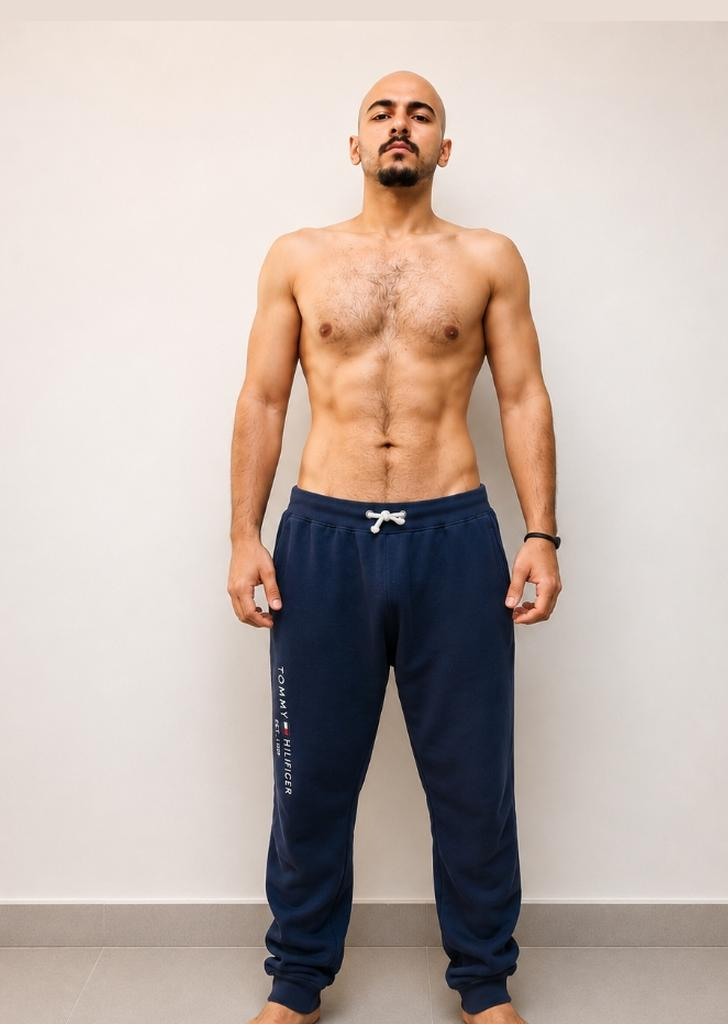
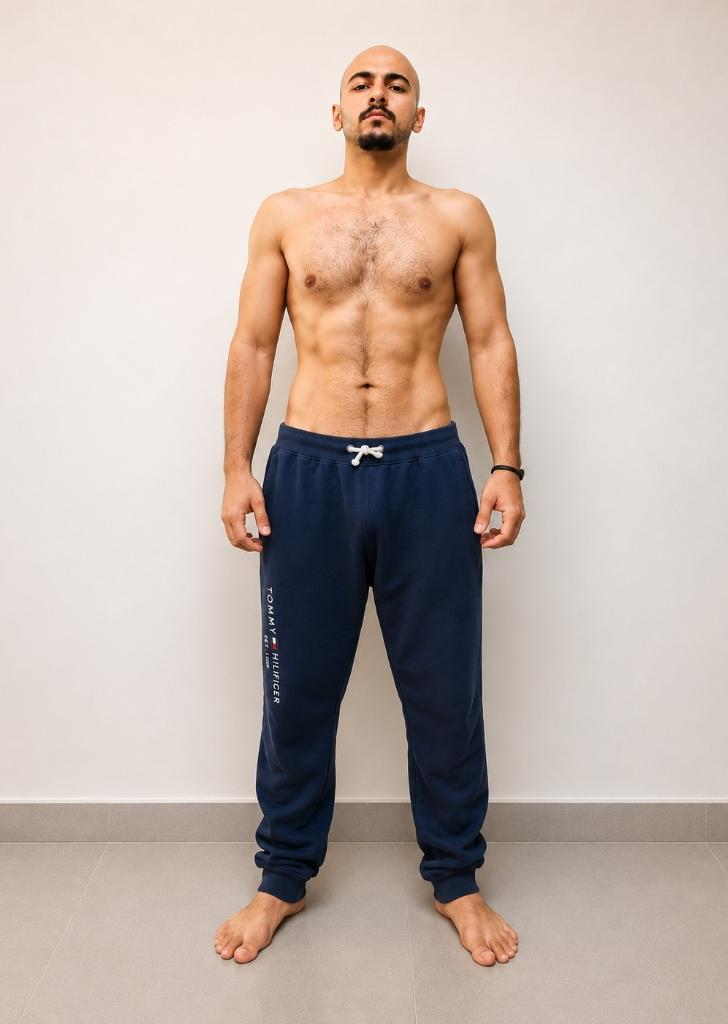
Update Client 2 alignment v2 and style premium visible slider controls

diff --git a/src/components/Transformations.tsx b/src/components/Transformations.tsx
@@ -119,10 +119,10 @@ export default function Transformations() {
                 }}
                 onMouseDown={(e) => e.stopPropagation()}
                 onTouchStart={(e) => e.stopPropagation()}
-                className="absolute left-4 top-1/2 -translate-y-1/2 z-30 p-3 rounded-full bg-[#080808]/75 border border-white/10 text-white hover:bg-accent-gold hover:text-black hover:scale-105 transition-all duration-300 backdrop-blur-sm cursor-pointer shadow-lg"
+                className="absolute left-4 top-1/2 -translate-y-1/2 z-30 w-12 h-12 rounded-full bg-[#080808]/85 border border-accent-gold/40 text-accent-gold hover:bg-accent-gold hover:text-black hover:scale-110 hover:shadow-[0_0_20px_rgba(212,175,55,0.4)] transition-all duration-300 backdrop-blur-md cursor-pointer shadow-[0_0_15px_rgba(0,0,0,0.5)] flex items-center justify-center"
                 aria-label="Previous client"
               >
-                <ChevronLeft size={20} />
+                <ChevronLeft size={24} />
               </button>
 
               <button 
@@ -132,10 +132,10 @@ export default function Transformations() {
                 }}
                 onMouseDown={(e) => e.stopPropagation()}
                 onTouchStart={(e) => e.stopPropagation()}
-                className="absolute right-4 top-1/2 -translate-y-1/2 z-30 p-3 rounded-full bg-[#080808]/75 border border-white/10 text-white hover:bg-accent-gold hover:text-black hover:scale-105 transition-all duration-300 backdrop-blur-sm cursor-pointer shadow-lg"
+                className="absolute right-4 top-1/2 -translate-y-1/2 z-30 w-12 h-12 rounded-full bg-[#080808]/85 border border-accent-gold/40 text-accent-gold hover:bg-accent-gold hover:text-black hover:scale-110 hover:shadow-[0_0_20px_rgba(212,175,55,0.4)] transition-all duration-300 backdrop-blur-md cursor-pointer shadow-[0_0_15px_rgba(0,0,0,0.5)] flex items-center justify-center"
                 aria-label="Next client"
               >
-                <ChevronRight size={20} />
+                <ChevronRight size={24} />
               </button>
 
               {/* AFTER Image (Background Base) */}
@@ -200,8 +200,8 @@ export default function Transformations() {
                 style={{ left: `${sliderPosition}%` }}
               >
                 {/* Gold Circle Drag handle */}
-                <div className="absolute top-1/2 -translate-y-1/2 -translate-x-1/2 w-10 h-10 rounded-full bg-accent-gold border-2 border-black flex items-center justify-center text-black shadow-lg">
-                  <ArrowLeftRight size={16} />
+                <div className="absolute top-1/2 -translate-y-1/2 -translate-x-1/2 w-11 h-11 rounded-full bg-[#080808]/90 border-2 border-accent-gold flex items-center justify-center text-accent-gold shadow-[0_0_20px_rgba(212,175,55,0.35)]">
+                  <ArrowLeftRight size={18} />
                 </div>
               </div>
             </div>
